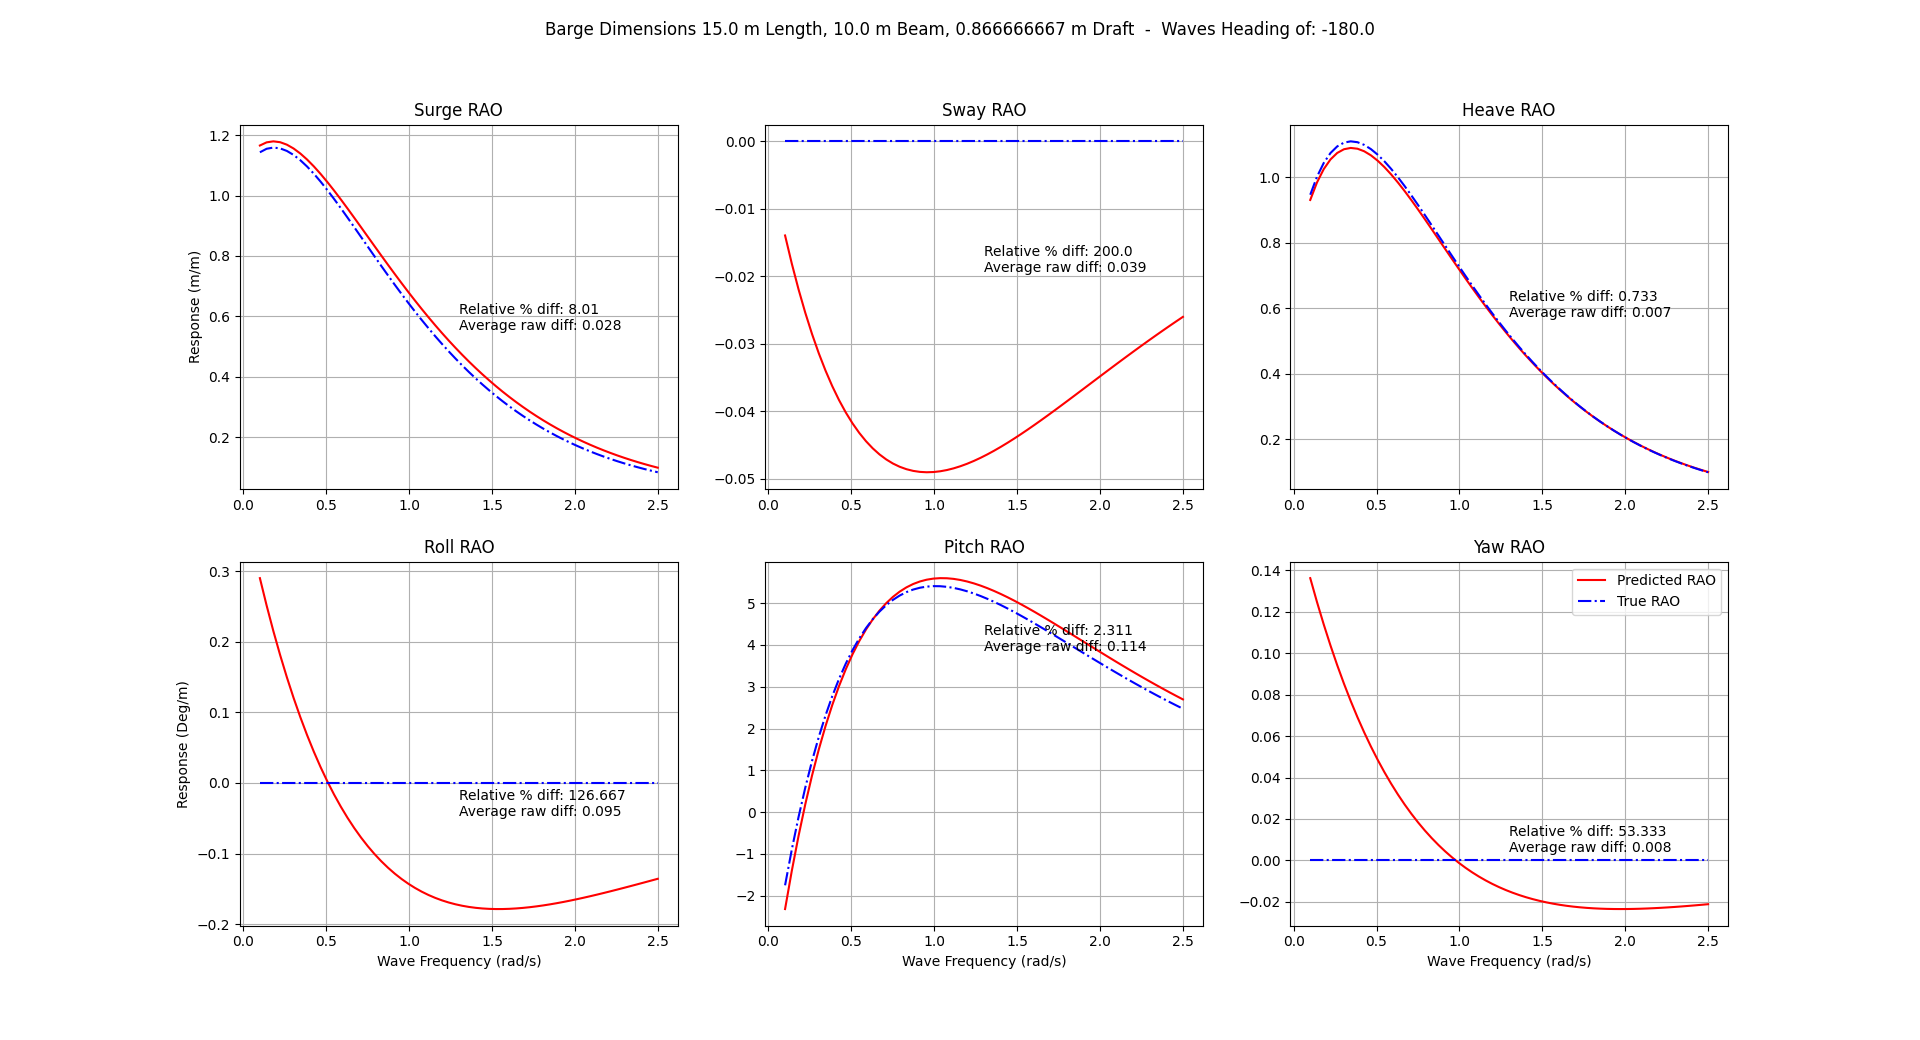
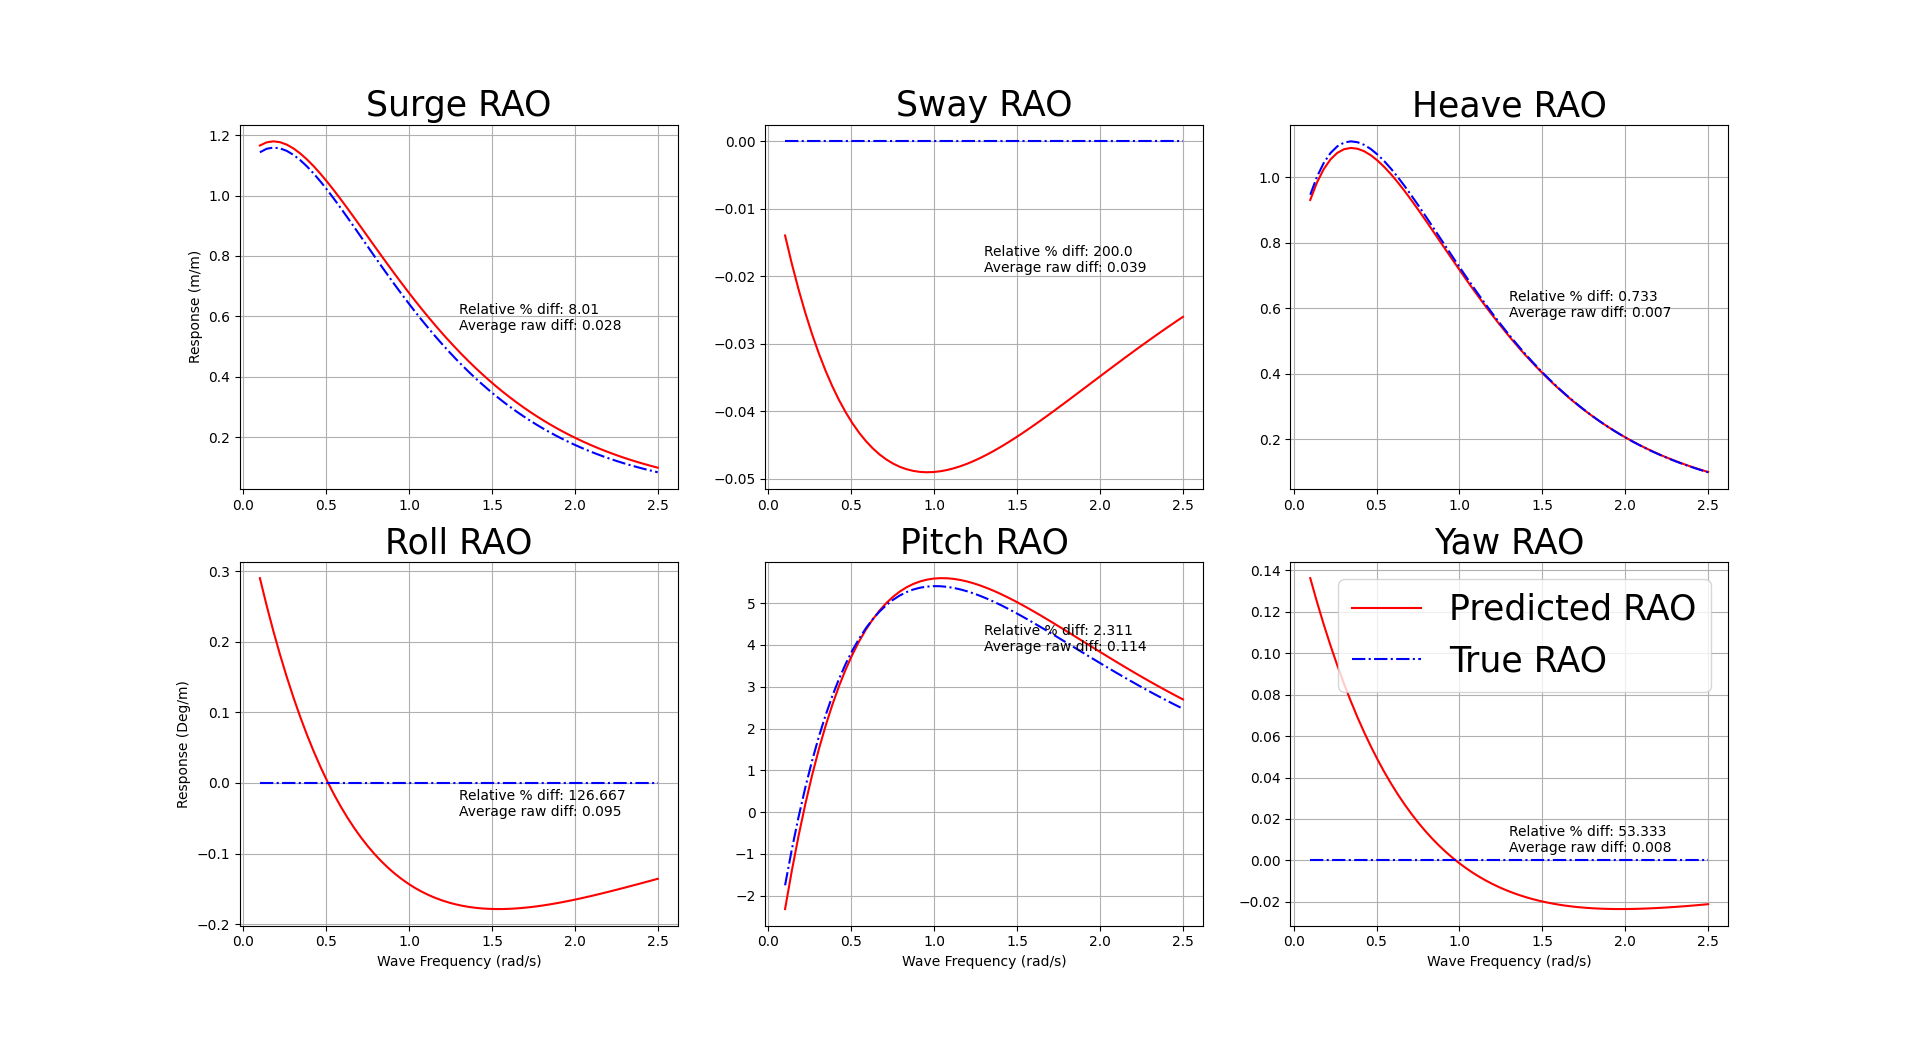
Fixed some aspects of the error analysis

diff --git a/parameter_fit_data_with code/damped_error_analysis.py b/parameter_fit_data_with code/damped_error_analysis.py
@@ -10,16 +10,75 @@ rpd_errs = []
 raw_errs = []
 colors = []
 
-deg0_rpd = []
-deg45_rpd = []
-deg90_rpd = []
-deg135_rpd = []
-deg180_rpd = []
-deg0_raw = []
-deg45_raw = []
-deg90_raw = []
-deg135_raw = []
-deg180_raw = []
+deg0_rpd_x = []
+deg0_rpd_y = []
+deg0_rpd_z = []
+deg0_rpd_rx = []
+deg0_rpd_ry = []
+deg0_rpd_rz = []
+
+deg45_rpd_x = []
+deg45_rpd_y = []
+deg45_rpd_z = []
+deg45_rpd_rx = []
+deg45_rpd_ry = []
+deg45_rpd_rz = []
+
+deg90_rpd_x = []
+deg90_rpd_y = []
+deg90_rpd_z = []
+deg90_rpd_rx = []
+deg90_rpd_ry = []
+deg90_rpd_rz = []
+
+deg135_rpd_x = []
+deg135_rpd_y = []
+deg135_rpd_z = []
+deg135_rpd_rx = []
+deg135_rpd_ry = []
+deg135_rpd_rz = []
+
+deg180_rpd_x = []
+deg180_rpd_y = []
+deg180_rpd_z = []
+deg180_rpd_rx = []
+deg180_rpd_ry = []
+deg180_rpd_rz = []
+
+deg0_raw_x = []
+deg0_raw_y = []
+deg0_raw_z = []
+deg0_raw_rx = []
+deg0_raw_ry = []
+deg0_raw_rz = []
+
+deg45_raw_x = []
+deg45_raw_y = []
+deg45_raw_z = []
+deg45_raw_rx = []
+deg45_raw_ry = []
+deg45_raw_rz = []
+
+deg90_raw_x = []
+deg90_raw_y = []
+deg90_raw_z = []
+deg90_raw_rx = []
+deg90_raw_ry = []
+deg90_raw_rz = []
+
+deg135_raw_x = []
+deg135_raw_y = []
+deg135_raw_z = []
+deg135_raw_rx = []
+deg135_raw_ry = []
+deg135_raw_rz = []
+
+deg180_raw_x = []
+deg180_raw_y = []
+deg180_raw_z = []
+deg180_raw_rx = []
+deg180_raw_ry = []
+deg180_raw_rz = []
 
 avg_x_err_rpd = []
 avg_y_err_rpd = []
@@ -103,6 +162,13 @@ while count < 120:
     ry_err_rpd = abs(round(mean(200*np.subtract(orig_ry, pred_ry)/(np.add(np.absolute(orig_ry), np.absolute(pred_ry)))), 3))
     rz_err_rpd = abs(round(mean(200*np.subtract(orig_rz, pred_rz)/(np.add(np.absolute(orig_rz), np.absolute(pred_rz)))), 3))
 
+    x_err_raw = round(abs(mean(np.subtract(orig_x, pred_x))), 3)
+    y_err_raw = round(abs(mean(np.subtract(orig_y, pred_y))), 3)
+    z_err_raw = round(abs(mean(np.subtract(orig_z, pred_z))), 3)
+    rx_err_raw = round(abs(mean(np.subtract(orig_rx, pred_rx))), 3)
+    ry_err_raw = round(abs(mean(np.subtract(orig_ry, pred_ry))), 3)
+    rz_err_raw = round(abs(mean(np.subtract(orig_rz, pred_rz))), 3)
+
     avg_x_err_rpd.append(x_err_rpd)
     avg_y_err_rpd.append(y_err_rpd)
     avg_z_err_rpd.append(z_err_rpd)
@@ -111,12 +177,6 @@ while count < 120:
     avg_rz_err_rpd.append(rz_err_rpd)
     avg_err_rpd = mean([x_err_rpd, y_err_rpd, z_err_rpd, rx_err_rpd, ry_err_rpd, rz_err_rpd])
 
-    x_err_raw = round(abs(mean(np.subtract(orig_x, pred_x))), 3)
-    y_err_raw = round(abs(mean(np.subtract(orig_y, pred_y))), 3)
-    z_err_raw = round(abs(mean(np.subtract(orig_z, pred_z))), 3)
-    rx_err_raw = round(abs(mean(np.subtract(orig_rx, pred_rx))), 3)
-    ry_err_raw = round(abs(mean(np.subtract(orig_ry, pred_ry))), 3)
-    rz_err_raw = round(abs(mean(np.subtract(orig_rz, pred_rz))), 3)
     avg_x_err_raw.append(x_err_raw)
     avg_y_err_raw.append(y_err_raw)
     avg_z_err_raw.append(z_err_raw)
@@ -130,20 +190,70 @@ while count < 120:
     rpd_errs.append(avg_err_rpd)
     raw_errs.append(avg_err_raw)
     if abs(baseline_input[3]) == 0.0:
-        deg0_rpd.append((avg_err_rpd))
-        deg0_raw.append((avg_err_raw))
+        deg0_rpd_x.append(x_err_rpd)
+        deg0_rpd_y.append(y_err_rpd)
+        deg0_rpd_z.append(z_err_rpd)
+        deg0_rpd_rx.append(rx_err_rpd)
+        deg0_rpd_ry.append(ry_err_rpd)
+        deg0_rpd_rz.append(rz_err_rpd)
+        deg0_raw_x.append(x_err_raw)
+        deg0_raw_y.append(y_err_raw)
+        deg0_raw_z.append(z_err_raw)
+        deg0_raw_rx.append(rx_err_raw)
+        deg0_raw_ry.append(ry_err_raw)
+        deg0_raw_rz.append(rz_err_raw)
     if abs(baseline_input[3]) == 45.0:
-        deg45_rpd.append((avg_err_rpd))
-        deg45_raw.append((avg_err_raw))
+        deg45_rpd_x.append(x_err_rpd)
+        deg45_rpd_y.append(y_err_rpd)
+        deg45_rpd_z.append(z_err_rpd)
+        deg45_rpd_rx.append(rx_err_rpd)
+        deg45_rpd_ry.append(ry_err_rpd)
+        deg45_rpd_rz.append(rz_err_rpd)
+        deg45_raw_x.append(x_err_raw)
+        deg45_raw_y.append(y_err_raw)
+        deg45_raw_z.append(z_err_raw)
+        deg45_raw_rx.append(rx_err_raw)
+        deg45_raw_ry.append(ry_err_raw)
+        deg45_raw_rz.append(rz_err_raw)
     if abs(baseline_input[3]) == 90.0:
-        deg90_rpd.append((avg_err_rpd))
-        deg90_raw.append((avg_err_raw))
+        deg90_rpd_x.append(x_err_rpd)
+        deg90_rpd_y.append(y_err_rpd)
+        deg90_rpd_z.append(z_err_rpd)
+        deg90_rpd_rx.append(rx_err_rpd)
+        deg90_rpd_ry.append(ry_err_rpd)
+        deg90_rpd_rz.append(rz_err_rpd)
+        deg90_raw_x.append(x_err_raw)
+        deg90_raw_y.append(y_err_raw)
+        deg90_raw_z.append(z_err_raw)
+        deg90_raw_rx.append(rx_err_raw)
+        deg90_raw_ry.append(ry_err_raw)
+        deg90_raw_rz.append(rz_err_raw)
     if abs(baseline_input[3]) == 135.0:
-        deg135_rpd.append((avg_err_rpd))
-        deg135_raw.append((avg_err_raw))
+        deg135_rpd_x.append(x_err_rpd)
+        deg135_rpd_y.append(y_err_rpd)
+        deg135_rpd_z.append(z_err_rpd)
+        deg135_rpd_rx.append(rx_err_rpd)
+        deg135_rpd_ry.append(ry_err_rpd)
+        deg135_rpd_rz.append(rz_err_rpd)
+        deg135_raw_x.append(x_err_raw)
+        deg135_raw_y.append(y_err_raw)
+        deg135_raw_z.append(z_err_raw)
+        deg135_raw_rx.append(rx_err_raw)
+        deg135_raw_ry.append(ry_err_raw)
+        deg135_raw_rz.append(rz_err_raw)
     if abs(baseline_input[3]) == 180.0:
-        deg180_rpd.append((avg_err_rpd))
-        deg180_raw.append((avg_err_raw))
+        deg180_rpd_x.append(x_err_rpd)
+        deg180_rpd_y.append(y_err_rpd)
+        deg180_rpd_z.append(z_err_rpd)
+        deg180_rpd_rx.append(rx_err_rpd)
+        deg180_rpd_ry.append(ry_err_rpd)
+        deg180_rpd_rz.append(rz_err_rpd)
+        deg180_raw_x.append(x_err_raw)
+        deg180_raw_y.append(y_err_raw)
+        deg180_raw_z.append(z_err_raw)
+        deg180_raw_rx.append(rx_err_raw)
+        deg180_raw_ry.append(ry_err_raw)
+        deg180_raw_rz.append(rz_err_raw)
     count += 1
 
 # TODO: plot waterplane error variation
@@ -163,20 +273,51 @@ plt.colorbar().ax.set_ylabel('Wave Heading, degrees')
 plt.clf()
 
 # TODO: plot wave heading error variation
-rpd = [deg0_rpd, deg45_rpd, deg90_rpd, deg135_rpd, deg180_rpd]
-raw = [deg0_raw, deg45_raw, deg90_raw, deg135_raw, deg180_raw]
-plt.boxplot(rpd, positions=[0, 45, 90, 135, 180], widths=(30, 30, 30, 30, 30), showfliers=False)
+
+# x_dof = [deg0_rpd_x, deg45_rpd_x, deg90_rpd_x, deg135_rpd_x, deg180_rpd_x]
+# y_dof = [deg0_rpd_y, deg45_rpd_y, deg90_rpd_y, deg135_rpd_y, deg180_rpd_y]
+# z_dof = [deg0_rpd_z, deg45_rpd_z, deg90_rpd_z, deg135_rpd_z, deg180_rpd_z]
+# rx_dof = [deg0_rpd_rx, deg45_rpd_rx, deg90_rpd_rx, deg135_rpd_rx, deg180_rpd_rx]
+# ry_dof = [deg0_rpd_ry, deg45_rpd_ry, deg90_rpd_ry, deg135_rpd_ry, deg180_rpd_ry]
+# rz_dof = [deg0_rpd_rz, deg45_rpd_rz, deg90_rpd_rz, deg135_rpd_rz, deg180_rpd_rz]
+
+x_dof = [deg0_raw_x, deg45_raw_x, deg90_raw_x, deg135_raw_x, deg180_raw_x]
+y_dof = [deg0_raw_y, deg45_raw_y, deg90_raw_y, deg135_raw_y, deg180_raw_y]
+z_dof = [deg0_raw_z, deg45_raw_z, deg90_raw_z, deg135_raw_z, deg180_raw_z]
+rx_dof = [deg0_raw_rx, deg45_raw_rx, deg90_raw_rx, deg135_raw_rx, deg180_raw_rx]
+ry_dof = [deg0_raw_ry, deg45_raw_ry, deg90_raw_ry, deg135_raw_ry, deg180_raw_ry]
+rz_dof = [deg0_raw_rz, deg45_raw_rz, deg90_raw_rz, deg135_raw_rz, deg180_raw_rz]
+
+pos = [0, 45, 90, 135, 180]
+adj = np.array([6, 6, 6, 6, 6])
+
+
+# b1 = plt.boxplot(x_dof, positions=np.add(pos, -2.5*adj), patch_artist=True, widths=(5, 5, 5, 5, 5), showfliers=False, boxprops=dict(facecolor='red'))
+# b2 = plt.boxplot(y_dof, positions=np.add(pos, -1.5*adj), patch_artist=True, widths=(5, 5, 5, 5, 5), showfliers=False, boxprops=dict(facecolor='orange'))
+# b3 = plt.boxplot(z_dof, positions=np.add(pos, -0.5*adj), patch_artist=True, widths=(5, 5, 5, 5, 5), showfliers=False, boxprops=dict(facecolor='yellow'))
+b4 = plt.boxplot(rx_dof, positions=np.add(pos, 0.5*adj), patch_artist=True, widths=(5, 5, 5, 5, 5), showfliers=False, boxprops=dict(facecolor='green'))
+b5 = plt.boxplot(ry_dof, positions=np.add(pos, 1.5*adj), patch_artist=True, widths=(5, 5, 5, 5, 5), showfliers=False, boxprops=dict(facecolor='blue'))
+b6 = plt.boxplot(rz_dof, positions=np.add(pos, 2.5*adj), patch_artist=True, widths=(5, 5, 5, 5, 5), showfliers=False, boxprops=dict(facecolor='purple'))
+plt.xticks(pos, labels=[0, 45, 90, 135, 180], fontsize=25)
+# plt.legend([b1['boxes'][0], b2['boxes'][0], b3['boxes'][0]], ['Surge', 'Sway', 'Heave'], fontsize=25)
+plt.legend([b4['boxes'][0], b5['boxes'][0], b6['boxes'][0]], ['Roll', 'Pitch', 'Yaw'], fontsize=25)
+# plt.legend([b1['boxes'][0], b2['boxes'][0], b3['boxes'][0], b4['boxes'][0], b5['boxes'][0], b6['boxes'][0]],
+#            ['Surge', 'Sway', 'Heave', 'Roll', 'Pitch', 'Yaw'], fontsize=25, bbox_to_anchor=(0.66, 0.95), loc='upper left', borderaxespad=0)
+
+plt.rc('font', size=25)
+# plt.xlim(-20, 200)
+plt.xlabel('Wave Heading Angle, degrees', fontsize=25)
+plt.yticks(fontsize=25)
+# plt.ylabel('RPD Error', fontsize=25)
+# plt.title('RPD Error Variation for Degrees of Freedom with Wave Heading')
+
+
 plt.xlim(-20, 200)
-plt.xlabel('Wave Heading Angle, degrees')
-plt.ylabel('RPD Error')
-plt.title('RPD Error Variation with Wave Heading')
-# plt.show()
-plt.boxplot(raw, positions=[0, 45, 90, 135, 180], widths=(30, 30, 30, 30, 30), showfliers=False)
-plt.xlim(-20, 200)
-plt.xlabel('Wave Heading Angle, degrees')
-plt.ylabel('Raw Error')
-plt.title('Raw Error Variation with Wave Heading')
-# plt.show()
+# plt.ylim(-20, 250)
+plt.xlabel('Wave Heading Angle, degrees', fontsize=25)
+plt.ylabel('Raw Error, degree/m', fontsize=25)
+plt.title('Raw Error Variation for Angular Degrees of Freedom with Wave Heading')
+plt.show()
 plt.clf()
 
 # TODO: plot degree of freedom error variation
@@ -186,12 +327,14 @@ plt.boxplot(rpd, labels=('x', 'y', 'z', 'rx', 'ry', 'rz'), showfliers=False)
 plt.xlabel('Degree of Freedom')
 plt.ylabel('RPD Error')
 plt.title('RPD Error Variation with Degree of Freedom')
-plt.show()
-plt.boxplot(raw, labels=('x', 'y', 'z', 'rx', 'ry', 'rz'), showfliers=False)
+plt.clf()
+# plt.show()
+plt.boxplot(raw[:3], labels=('x', 'y', 'z'), showfliers=False)
 plt.xlabel('Degree of Freedom')
-plt.ylabel('Raw Error, m/m or deg/m')
-plt.title('Raw Error Variation with Degree of Freedom')
-plt.show()
+plt.ylabel('Raw Error, m/m')
+plt.title('Raw Error Variation with \n Linear Degrees of Freedom')
+plt.tight_layout()
+# plt.show()
 
 #
 

diff --git a/parameter_fit_data_with code/damped_model_visualizer.py b/parameter_fit_data_with code/damped_model_visualizer.py
@@ -98,8 +98,9 @@ rx_err_raw = round(abs(mean(np.subtract(orig_rx, pred_rx))), 3)
 ry_err_raw = round(abs(mean(np.subtract(orig_ry, pred_ry))), 3)
 rz_err_raw = round(abs(mean(np.subtract(orig_rz, pred_rz))), 3)
 
-# plt.subplot(2, 3, 1)
-plt.rc('font', size=25)
+plt.subplot(2, 3, 1)
+plt.rc('axes', titlesize=25)
+plt.rc('legend',fontsize=25)
 # title = 'Barge Dimensions ' + str(baseline_input[0]) + ' m Length, ' + str(baseline_input[1]) + ' m Beam, ' + \
    # str(abs(baseline_input[2])) + ' m Draft  -  Waves Heading of: ' + str(baseline_input[3])
 # plt.suptitle(title)
@@ -110,11 +111,11 @@ plt.ylabel('Response (m/m)')
 plt.text(mean(x_axis), (mean(orig_x)+mean(pred_x))/2, "Relative % diff: "+ str(x_err_rpd)+'\n'+"Average raw diff: " + str(x_err_raw))
 plt.grid()
 # plt.ylim([-0.5, 1.5])
-plt.legend()
+# plt.legend()
 
-plt.show()
-# plt.subplot(2, 3, 2)
-plt.rc('font', size=25)
+# plt.show()
+plt.subplot(2, 3, 2)
+# plt.rc('font', size=25)
 plt.plot(x_axis, pred_y, color='red', label='Predicted RAO')
 plt.plot(x_axis, orig_y, color='blue', linestyle='-.', label='True RAO')
 plt.title('Sway RAO')
@@ -122,10 +123,10 @@ plt.title('Sway RAO')
 plt.text(mean(x_axis), (mean(orig_y)+mean(pred_y))/2, "Relative % diff: "+ str(y_err_rpd)+'\n'+"Average raw diff: " + str(y_err_raw))
 
 plt.grid()
-plt.legend()
+# plt.legend()
 # plt.rc('font', size=10)
 # plt.ylim([-0.5, 1.5])
-plt.show()
+# plt.show()
 plt.subplot(2, 3, 3)
 plt.plot(x_axis, pred_z, color='red', label='Predicted RAO')
 plt.plot(x_axis, orig_z, color='blue', linestyle='-.', label='True RAO')
